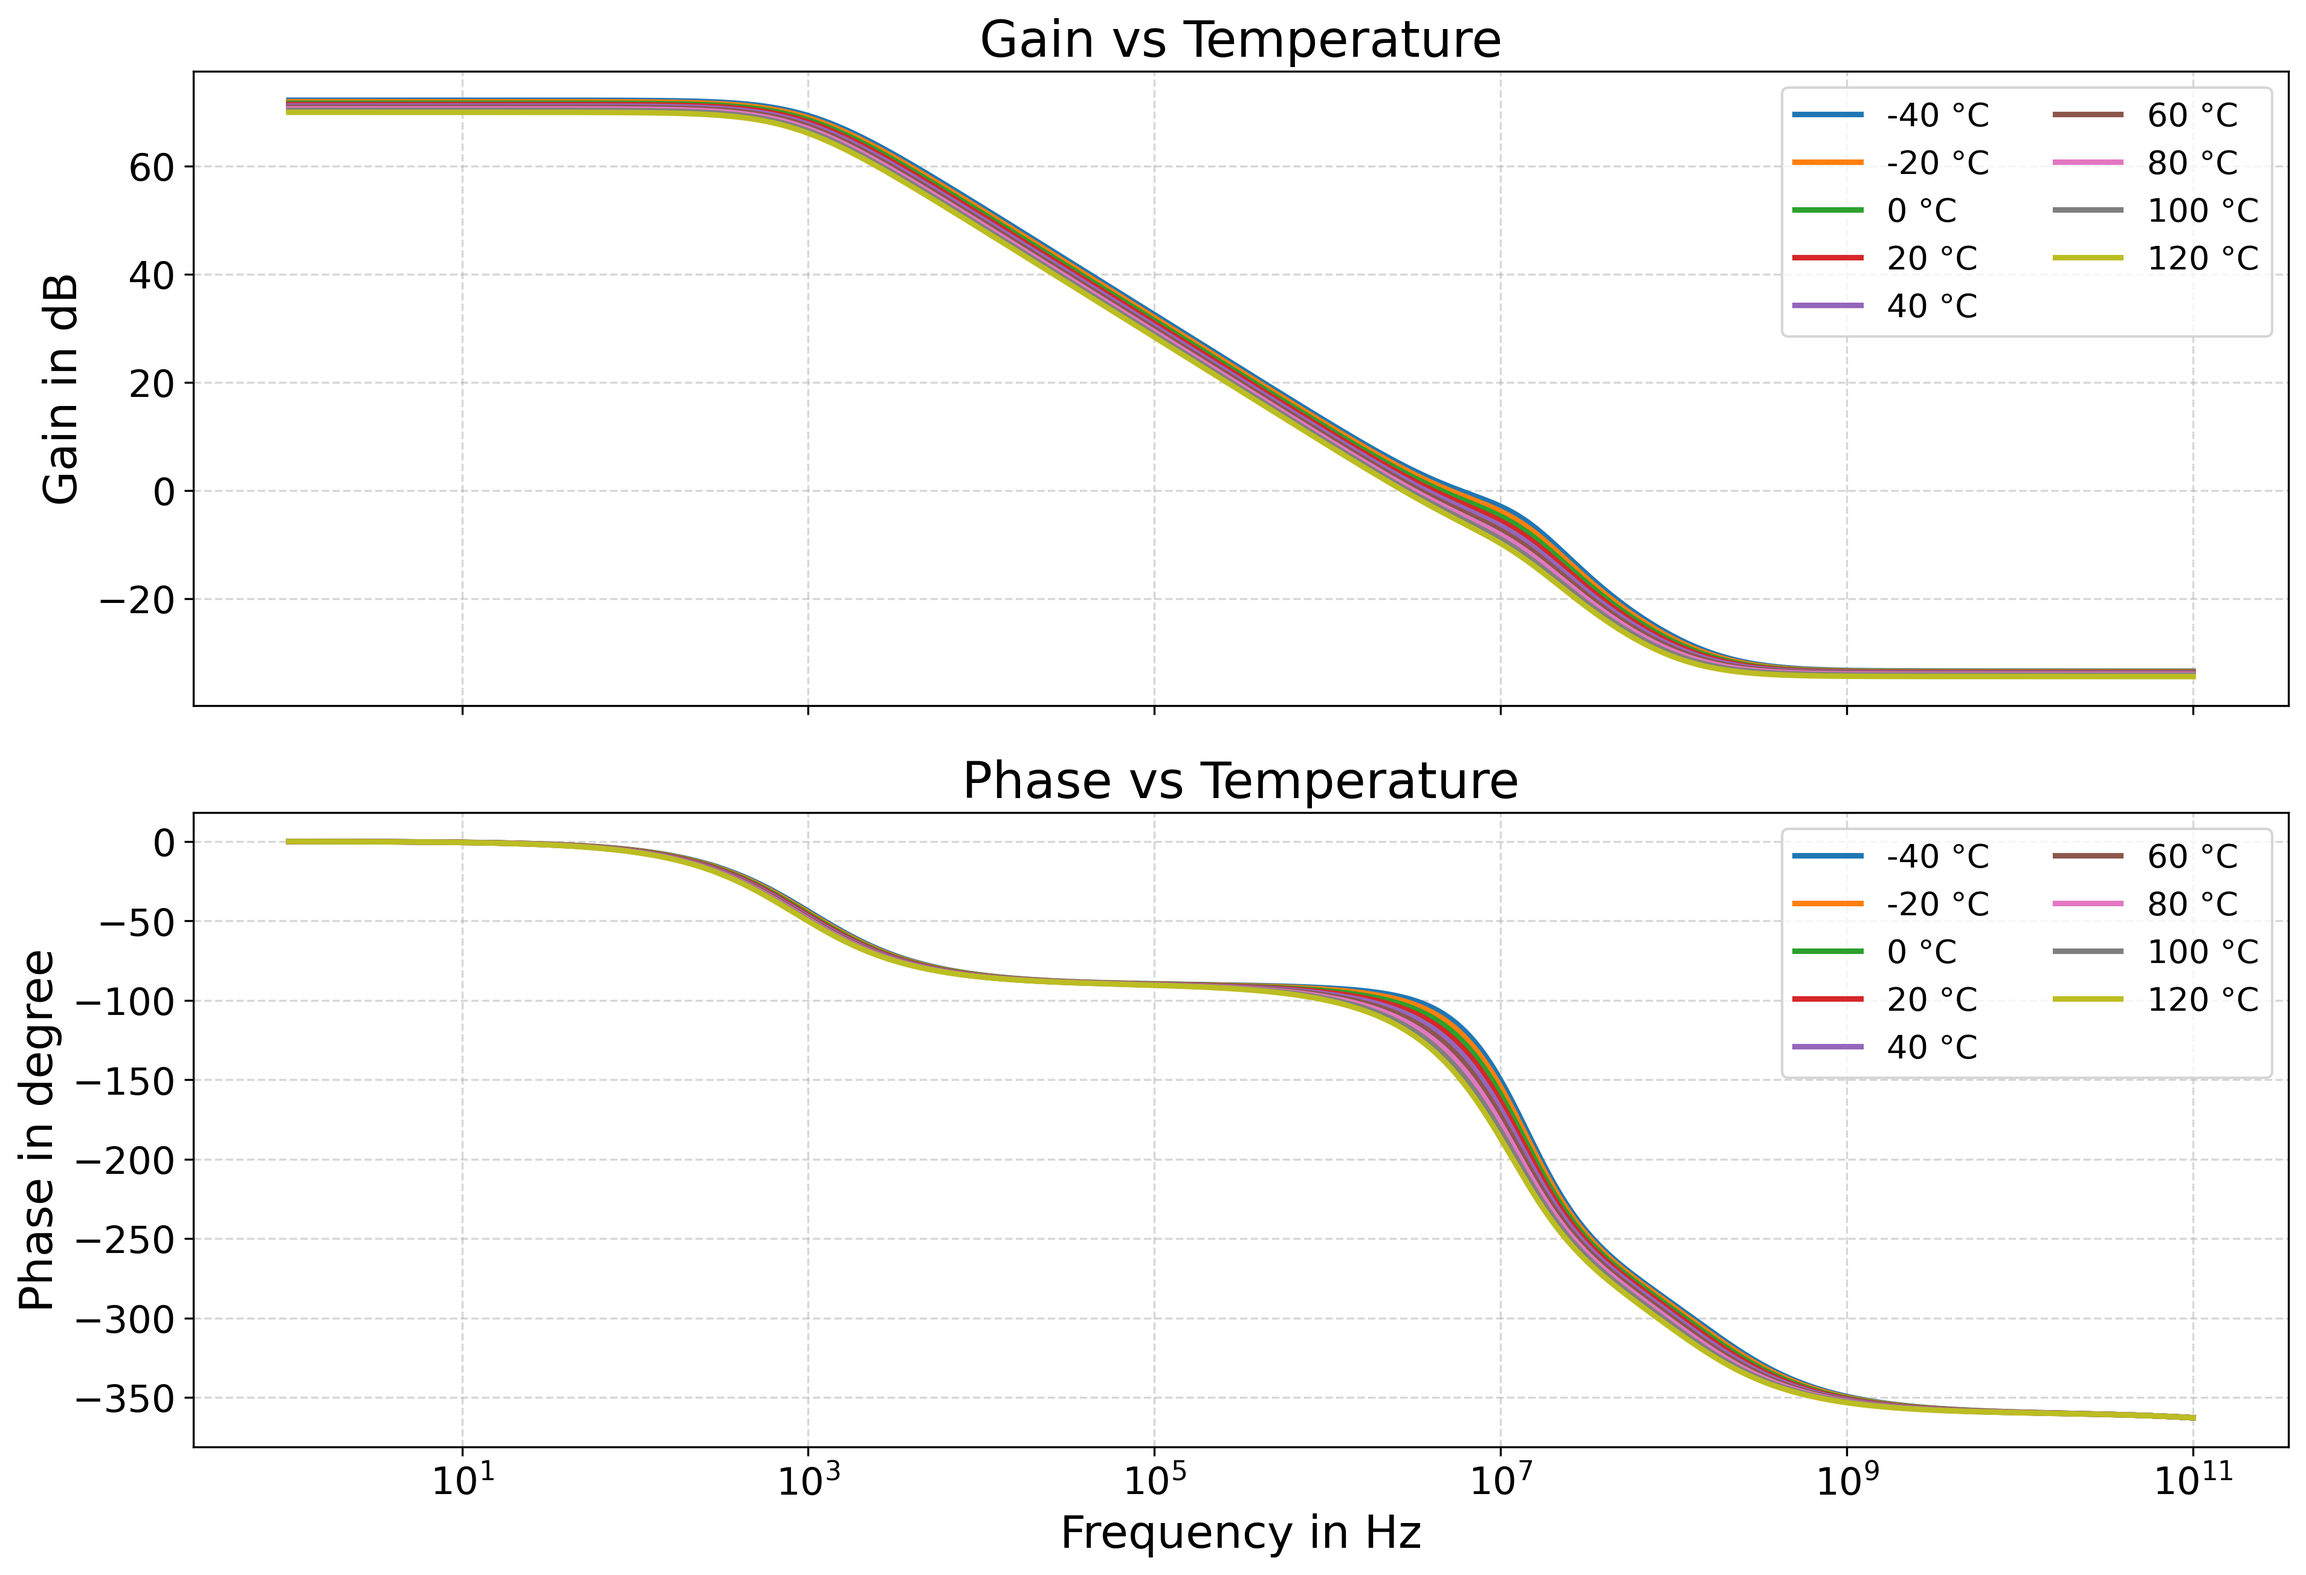
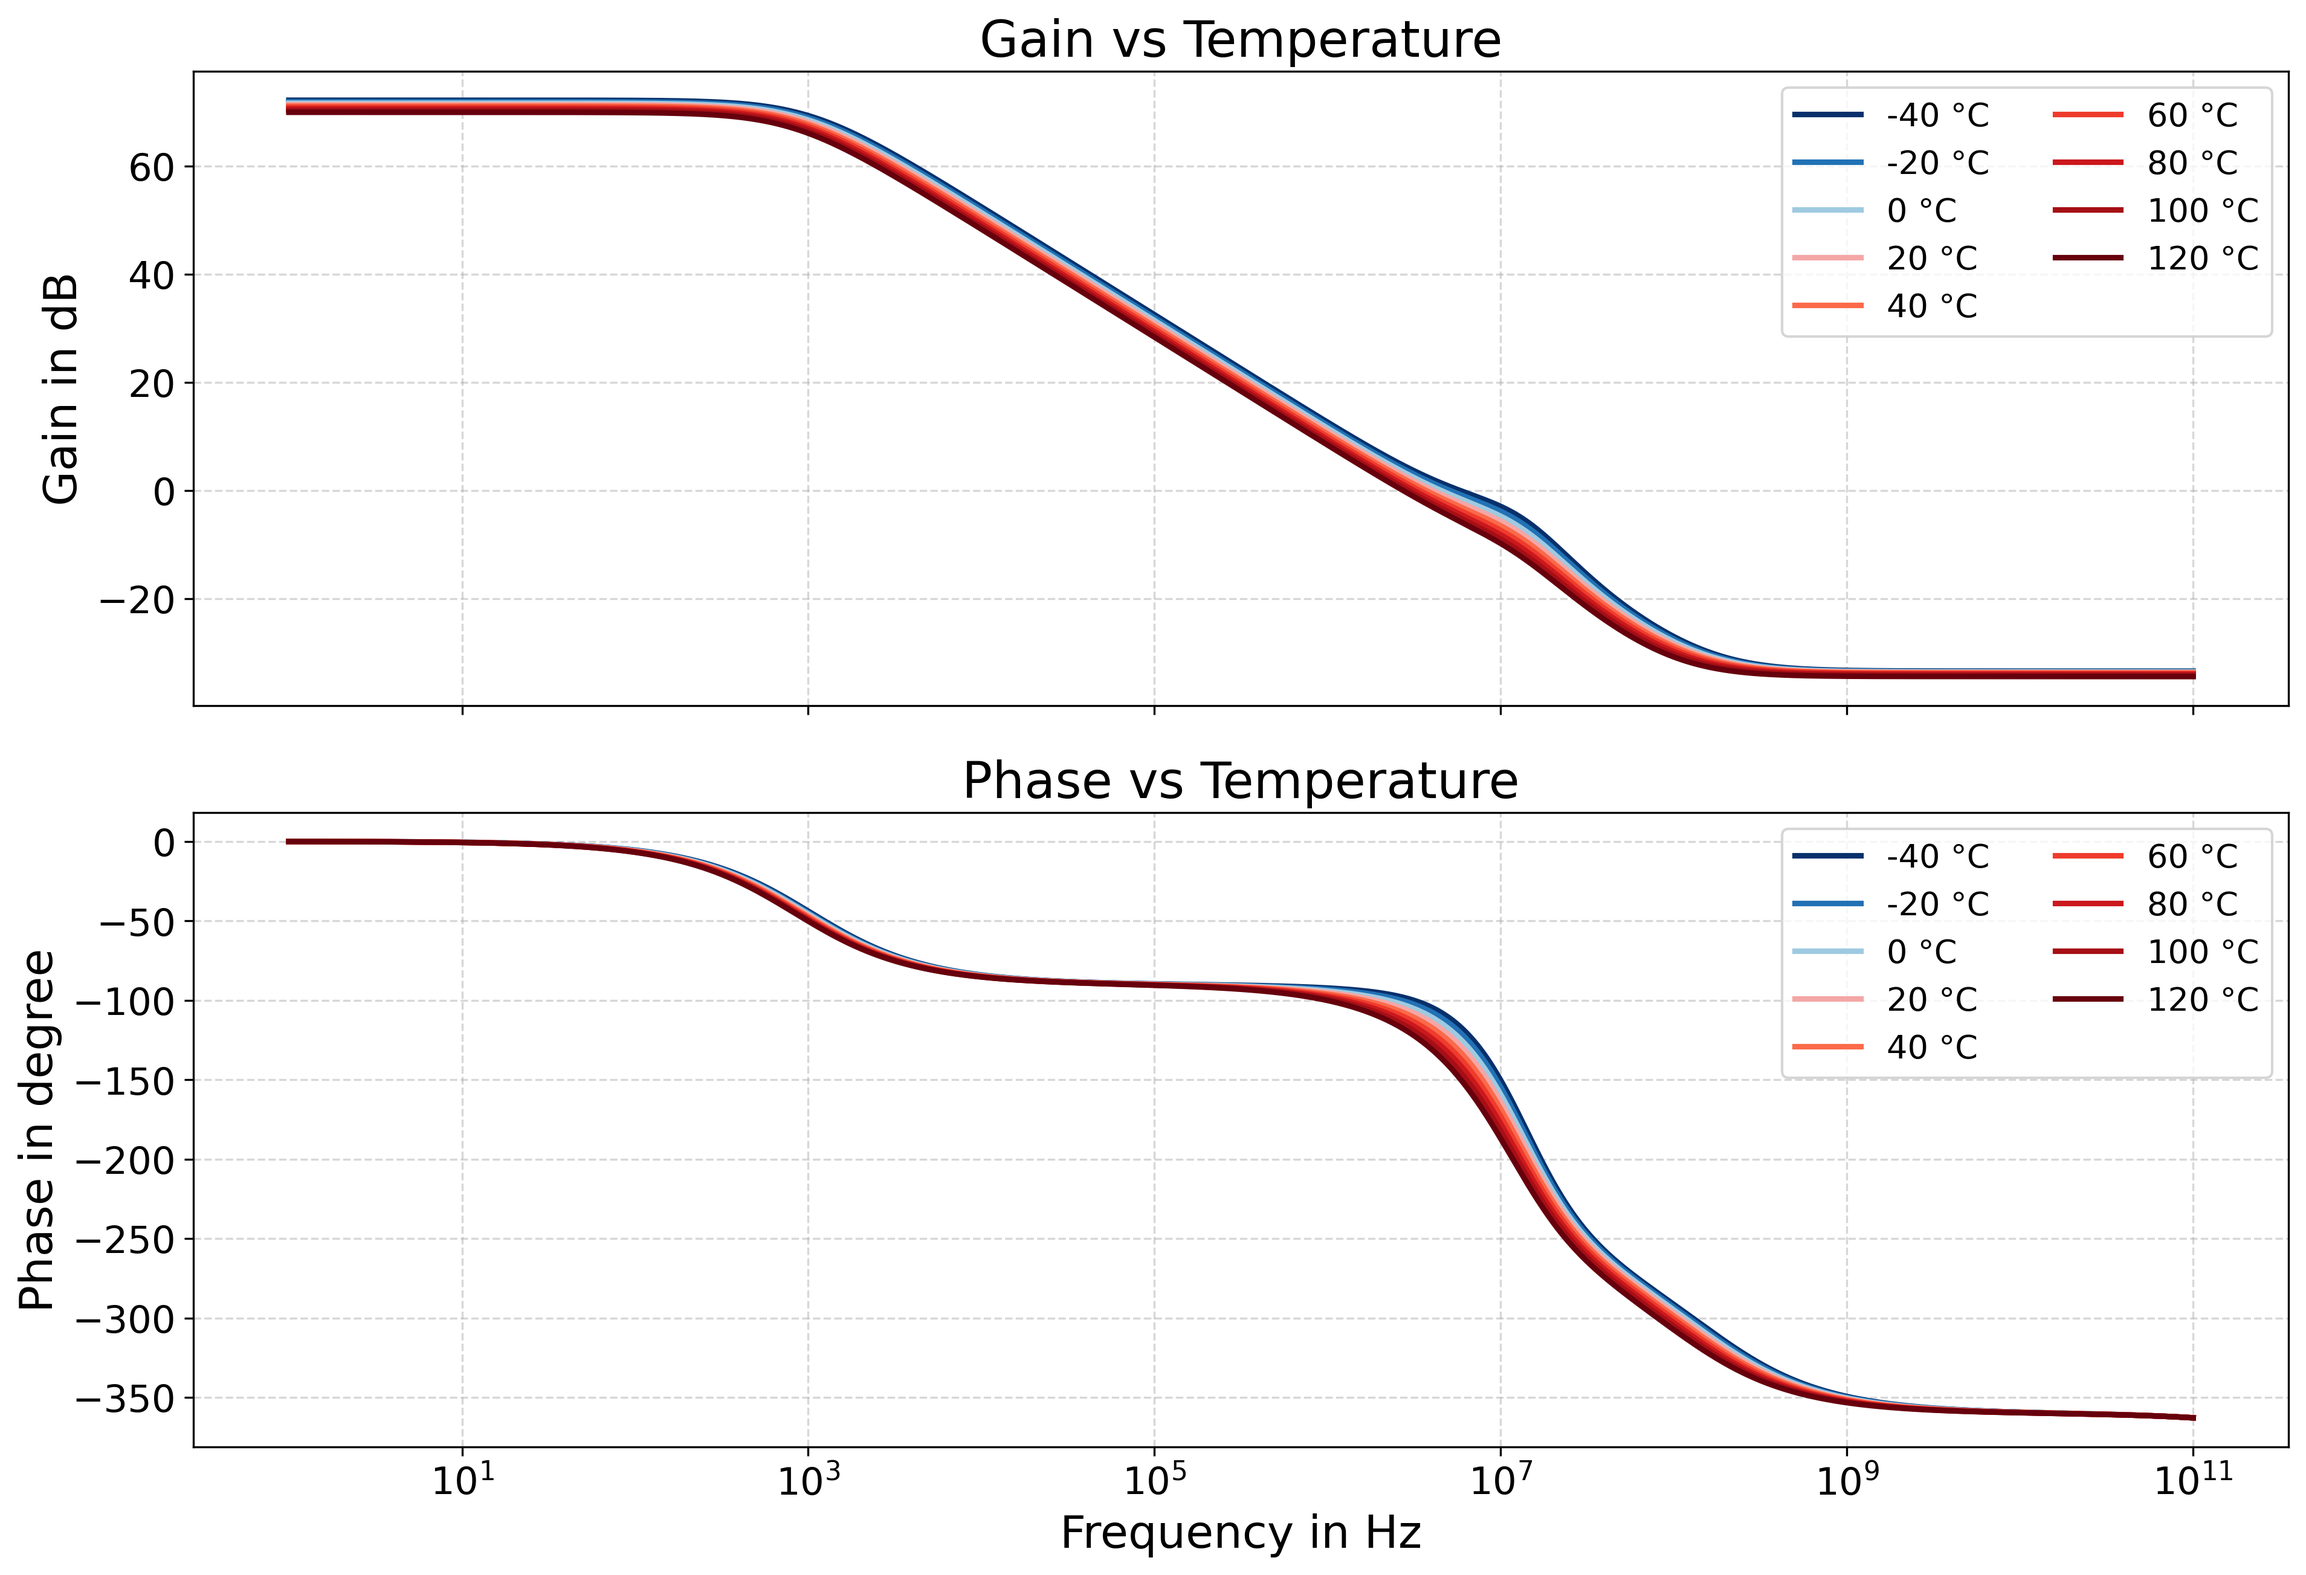
minor changes to readme 003 and changed picture for temperature analysis in 004

diff --git a/003_Ideal_Circuits/readme.md b/003_Ideal_Circuits/readme.md
@@ -5,7 +5,7 @@ The ideal circuit uses voltage controlled voltage sources (VCVS) as ideal operat
 
 ![vcvs vs opamp](pictures/opamp_vs_vcvs.png)
 
-The resulting schematic is shown in the next picture. As can be seen, the lowpass and highpass as well as the inverter and adder use a vcvs as their op-amp.
+The resulting schematic is shown in the next picture. As can be seen, the lowpass and highpass as well as the inverter and adder use a vcvs as an ideal op-amp.
 
 ![Resulting schematic](pictures/linkwitz_riley_cross_vsvc.png)
 
@@ -23,4 +23,4 @@ The resulting waveforms can be seen in the following figure.
 
 ![Resulting waveforms of ideal circuit](pictures/ideal_circuit_picture.png)
 
-The picture shows the lowpass response, the highpass response and the overall output. As expected the cross of high- and lowpass is at -6 dB and the output has a flat response.
+The picture shows the lowpass response, the highpass response and the overall output. As expected the cross of high- and lowpass is at -6 dB/150 Hz and the output has a flat allpass response.
